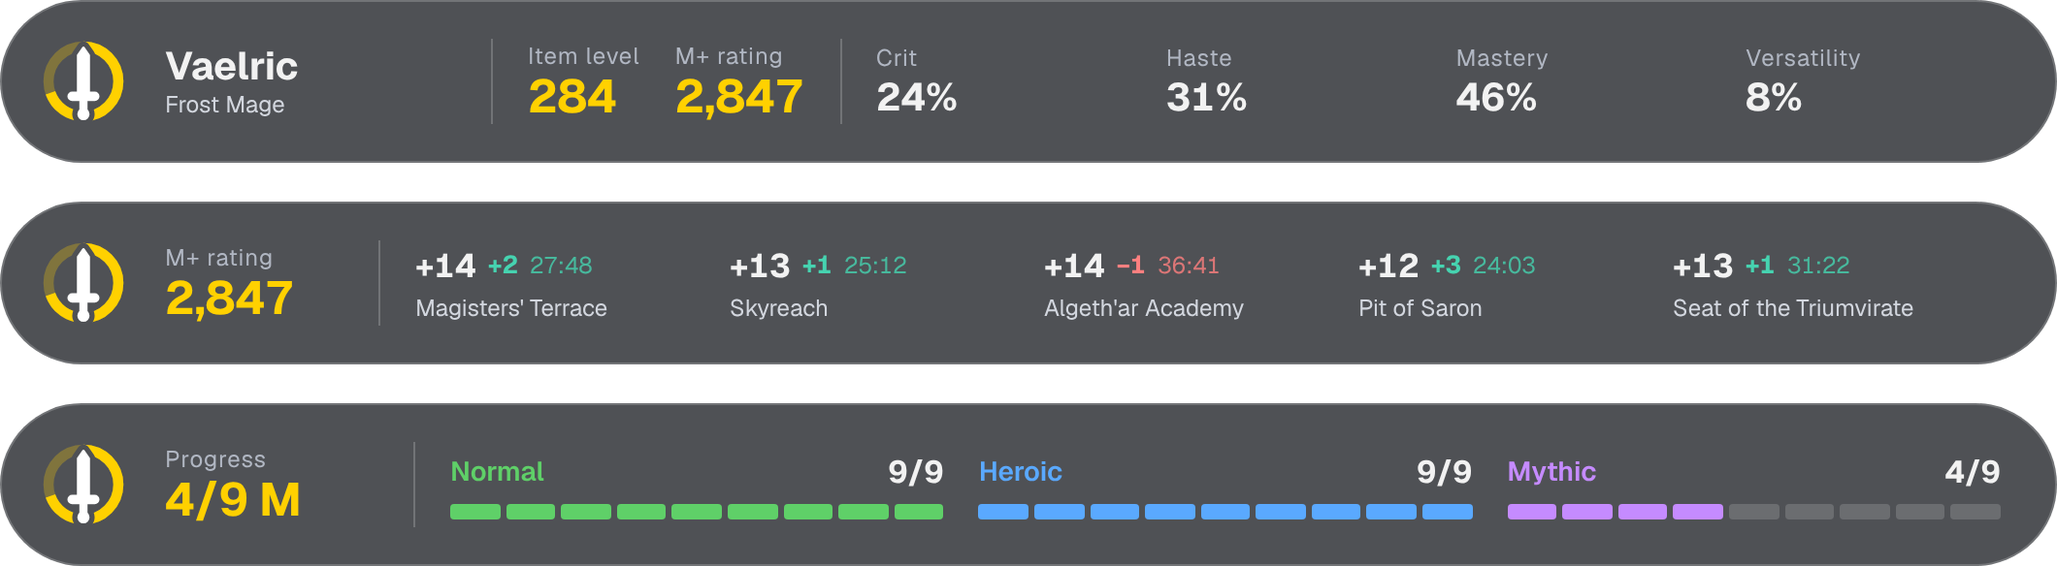
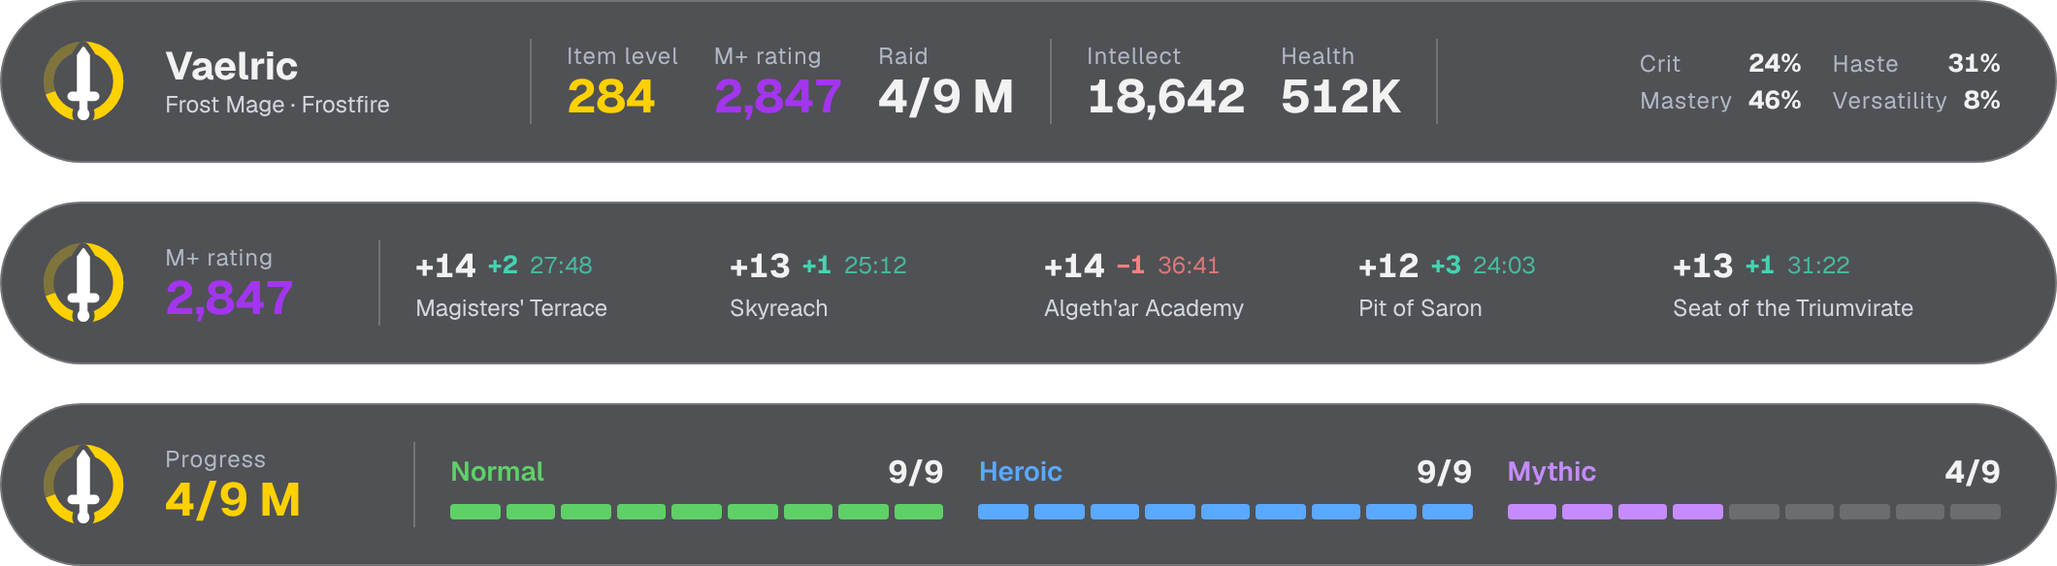
Character page: summary, main stat, health and tertiary stats
- M+ rating in Blizzard's rating colour (also on the Mythic+ page), raid progress and best key on the character page
- Main stat (highest of strength, agility, intellect), health, leech, avoidance and speed from the statistics endpoint
- Hero talent next to the spec when Blizzard sends it
- Level only while below max level (always in WoW Forever)
- All three layouts keep their size in all four languages; screenshots updated

diff --git a/public/js/render.js b/public/js/render.js
@@ -2,6 +2,8 @@
 import { TEXTS } from './i18n.js';
 
 export const SIZES = { a: [640, 270], c: [1060, 84], d: [300, 590] };
+// Höchste Stufe in Retail (Midnight); darunter zeigt die Charakterseite die Stufe
+const MAX_LEVEL = 90;
 export const PAGES = ['character', 'mplus', 'raid'];
 // Farbe und Deckkraft (%) des Hintergrunds, wenn im Editor nichts eingestellt ist
 export const BACKGROUND = { a: ['#14161c', 94], c: ['#12141a', 74], d: ['#0f1116', 100] };
@@ -33,13 +35,23 @@ function view(state, lang, game) {
     t,
     mp,
     title: mp ? t.mplus : t.dungeon,
-    c: { name: esc(c.name), realm: esc(c.realm), guild: esc(c.guild), spec: esc(c.spec), level: c.level ?? 0, ilvl: c.ilvl, avatar: c.avatar },
+    c: { name: esc(c.name), realm: esc(c.realm), guild: esc(c.guild), spec: esc(c.spec), hero: esc(c.hero ?? ''), level: c.level ?? 0, ilvl: c.ilvl, avatar: c.avatar },
+    // Auf Max-Level sagt die Stufe nichts, dann zeigt die Seite sie nicht
+    leveling: forever || !(c.level >= MAX_LEVEL),
     score: m.score.toLocaleString(lang).replace(/\s/g, ' '),
+    // Wertung in Blizzards Farbe, sonst in der Akzentfarbe
+    scoreStyle: /^#[0-9a-f]{6}$/i.test(m.color ?? '') ? `color:${m.color}` : '',
     scorePct: m.scorePct,
     best: `+${m.bestKey}`,
     timed: `${m.timed}/${m.total}`,
     // Fehlt die Statistik bei Blizzard, bleibt die Werte-Zeile leer
     stats: state.stats ? Object.keys(t.stat).map((id) => ({ label: t.stat[id], value: pct(state.stats[id]) })) : [],
+    main: state.stats?.primary ? { label: t.main[state.stats.primary.id], value: state.stats.primary.value.toLocaleString(lang).replace(/\s/g, ' ') } : null,
+    health: state.stats?.health ? new Intl.NumberFormat(lang, { notation: 'compact', maximumFractionDigits: state.stats.health >= 1e5 && state.stats.health < 1e6 ? 0 : 1 }).format(state.stats.health).replace(/\s/g, ' ') : null,
+    // Tertiärwerte nur, wenn wenigstens einer da ist
+    tert: state.stats && ['leech', 'avoidance', 'speed'].some((id) => state.stats[id] > 0)
+      ? ['leech', 'avoidance', 'speed'].map((id) => ({ label: t.tert[id], value: pct((state.stats[id] ?? 0).toLocaleString(lang, { maximumFractionDigits: 1 })) }))
+      : [],
     runs: m.runs.map((run) => ({
       key: `+${run.key}`,
       name: esc(run.name),
@@ -70,24 +82,27 @@ const LAYOUTS = {
         ${AVATAR(72, v.t.portrait, v.c.avatar)}
         <div class="grow">
           <div style="font-size:30px;font-weight:700;line-height:1.1">${v.c.name}</div>
-          <div style="font-size:14px;color:#d3d7df;margin-top:4px">${v.c.spec} · ${v.c.realm}</div>
-          <div style="font-size:13px;color:#b1b7c3;margin-top:2px">${v.c.guild}</div>
+          <div class="sub">${v.c.spec}${v.c.hero ? `<span class="dot">·</span>${v.c.hero}` : ''}</div>
+          <div class="sub2">${[v.c.realm, v.c.guild].filter(Boolean).join(' · ')}</div>
         </div>
-        <div class="stack end" style="gap:4px"><div class="lbl">${v.t.level}</div><div style="font-size:38px;font-weight:700;line-height:1">${v.c.level}</div></div>
+        ${v.leveling ? `<div class="stack end" style="gap:4px"><div class="lbl">${v.t.level}</div><div style="font-size:38px;font-weight:700;line-height:1">${v.c.level}</div></div>` : ''}
         <div class="stack end" style="gap:4px"><div class="lbl">${v.t.ilvl}</div><div class="accent" style="font-size:38px;font-weight:700;line-height:1">${v.c.ilvl}</div></div>
       </div>
-      ${v.mp ? `<div style="margin-top:16px">
-        <div class="row between" style="margin-bottom:6px"><span class="lbl">${v.t.score}</span><span style="font-size:15px;font-weight:700">${v.score}</span></div>
-        <div class="track" style="height:10px"><div class="fill" style="width:${v.scorePct}%"></div></div>
-      </div>` : ''}
-      <div class="stats">${each(v.stats, (s) => `<div><div class="lbl">${s.label}</div><div class="big">${s.value}</div></div>`)}</div>`,
+      <div class="sum">
+        ${v.mp ? `<div><div class="lbl">${v.t.score}</div><div class="big accent" style="${v.scoreStyle}">${v.score}</div></div>` : ''}
+        <div><div class="lbl">${v.t.raidShort}</div><div class="big">${v.top}</div></div>
+        ${v.mp ? `<div><div class="lbl">${v.t.best}</div><div class="big">${v.best}</div></div>` : ''}
+        ${v.main ? `<div><div class="lbl">${v.main.label}</div><div class="big">${v.main.value}</div></div>` : ''}
+        ${v.health ? `<div><div class="lbl">${v.t.health}</div><div class="big">${v.health}</div></div>` : ''}
+      </div>
+      <div class="stats">${each(v.stats, (s) => `<div><div class="lbl">${s.label}</div><div class="num">${s.value}</div></div>`)}${each(v.tert, (s) => `<div class="t3"><div class="lbl">${s.label}</div><div class="num">${s.value}</div></div>`)}</div>`,
     mplus: (v) => `
       <div class="row between" style="margin-bottom:10px">
         <div class="stack" style="gap:2px">${v.mp ? `<div class="lbl">${v.t.recent}</div>` : ''}<div class="title">${v.title}</div></div>
         ${v.mp ? `<div class="row" style="gap:24px">
           <div class="stack end"><div class="lbl">${v.t.timed}</div><div class="num">${v.timed}</div></div>
           <div class="stack end"><div class="lbl">${v.t.best}</div><div class="num">${v.best}</div></div>
-          <div class="stack end"><div class="lbl">${v.t.score}</div><div class="num accent">${v.score}</div></div>
+          <div class="stack end"><div class="lbl">${v.t.score}</div><div class="num accent" style="${v.scoreStyle}">${v.score}</div></div>
         </div>` : ''}
       </div>
       <div class="stack bottom" style="gap:6px">${v.runs.length ? each(v.runs, (r) => `
@@ -113,16 +128,19 @@ const LAYOUTS = {
   c: {
     character: (v) => `
       ${MARK(48)}
-      <div class="stack" style="min-width:150px"><div style="font-size:20px;font-weight:700;line-height:1.15">${v.c.name}</div><div style="font-size:12px;color:#d3d7df;white-space:nowrap">${v.c.spec}</div></div>
+      <div class="stack who"><div style="font-size:20px;font-weight:700;line-height:1.15">${v.c.name}</div><div class="spec">${[v.leveling ? `${v.t.level} ${v.c.level}` : '', v.c.spec, v.c.hero].filter(Boolean).join(' · ')}</div></div>
       <div class="div"></div>
-      <div class="stack"><div class="lbl">${v.t.level}</div><div class="big">${v.c.level}</div></div>
       <div class="stack"><div class="lbl">${v.t.ilvl}</div><div class="big accent">${v.c.ilvl}</div></div>
-      ${v.mp ? `<div class="stack"><div class="lbl">${v.t.score}</div><div class="big accent">${v.score}</div></div>` : ''}
-      <div class="div"></div>
-      ${each(v.stats, (s) => `<div class="stack grow"><div class="lbl">${s.label}</div><div style="font-size:20px;font-weight:700;line-height:1.2">${s.value}</div></div>`)}`,
+      ${v.mp ? `<div class="stack"><div class="lbl">${v.t.score}</div><div class="big accent" style="${v.scoreStyle}">${v.score}</div></div>` : ''}
+      <div class="stack"><div class="lbl">${v.t.raidShort}</div><div class="big">${v.top}</div></div>
+      ${v.main || v.health ? `<div class="div"></div>` : ''}
+      ${v.main ? `<div class="stack"><div class="lbl">${v.main.label}</div><div class="big">${v.main.value}</div></div>` : ''}
+      ${v.health ? `<div class="stack"><div class="lbl">${v.t.health}</div><div class="big">${v.health}</div></div>` : ''}
+      ${v.stats.length ? `<div class="div"></div>` : ''}
+      <div class="sec">${each(v.stats, (s) => `<div><span class="lbl">${s.label}</span><span>${s.value}</span></div>`)}</div>`,
     mplus: (v) => `
       ${MARK(48)}
-      ${v.mp ? `<div class="stack" style="width:92px;flex:none"><div class="lbl">${v.t.score}</div><div class="big accent">${v.score}</div></div>` : `<div class="big" style="flex:none">${v.title}</div>`}
+      ${v.mp ? `<div class="stack" style="width:92px;flex:none"><div class="lbl">${v.t.score}</div><div class="big accent" style="${v.scoreStyle}">${v.score}</div></div>` : `<div class="big" style="flex:none">${v.title}</div>`}
       <div class="div"></div>
       <div class="row" style="gap:10px">${v.runs.length ? each(v.runs, (r) => `
         <div class="tile stack" style="gap:3px">
@@ -144,17 +162,24 @@ const LAYOUTS = {
     character: (v) => `
       <div class="head">${MARK(28)}<span class="grow">${v.t.character}</span></div>
       <div class="stack hero">
-        ${AVATAR(96, v.t.portrait, v.c.avatar)}
-        <div style="font-size:26px;font-weight:700;margin-top:12px;line-height:1.1">${v.c.name}</div>
-        <div style="font-size:14px;color:#d3d7df;margin-top:4px">${v.t.level} ${v.c.level} · ${v.c.spec}</div>
-        <div style="font-size:13px;color:#b1b7c3;margin-top:2px">${[v.c.guild, v.c.realm].filter(Boolean).join(' · ')}</div>
+        ${AVATAR(56, v.t.portrait, v.c.avatar)}
+        <div style="font-size:22px;font-weight:700;margin-top:8px;line-height:1.1">${v.c.name}</div>
+        <div class="sub">${[v.leveling ? `${v.t.level} ${v.c.level}` : '', v.c.spec, v.c.hero].filter(Boolean).join(' · ')}</div>
+        <div class="sub2">${[v.c.guild, v.c.realm].filter(Boolean).join(' · ')}</div>
       </div>
-      <div class="line"><span class="lbl">${v.t.ilvl}</span><span class="big accent">${v.c.ilvl}</span></div>
-      ${v.mp ? `<div class="line"><span class="lbl">${v.t.score}</span><span class="big accent">${v.score}</span></div>` : ''}
-      ${each(v.stats, (s) => `<div class="line"><span class="lbl">${s.label}</span><span class="num">${s.value}</span></div>`)}`,
+      <div class="cells">
+        <div><span class="lbl">${v.t.ilvl}</span><span class="big accent">${v.c.ilvl}</span></div>
+        ${v.mp ? `<div><span class="lbl">${v.t.score}</span><span class="big accent" style="${v.scoreStyle}">${v.score}</span></div>` : ''}
+        <div><span class="lbl">${v.t.raidShort}</span><span class="big">${v.top}</span></div>
+        ${v.mp ? `<div><span class="lbl">${v.t.best}</span><span class="big">${v.best}</span></div>` : ''}
+        ${v.main ? `<div><span class="lbl">${v.main.label}</span><span class="big">${v.main.value}</span></div>` : ''}
+        ${v.health ? `<div><span class="lbl">${v.t.health}</span><span class="big">${v.health}</span></div>` : ''}
+      </div>
+      ${v.stats.length ? `<div class="cells small">${each(v.stats, (s) => `<div><span class="lbl">${s.label}</span><span class="num">${s.value}</span></div>`)}</div>` : ''}
+      ${v.tert.length ? `<div class="tert">${each(v.tert, (s) => `<div><span class="lbl">${s.label}</span><span>${s.value}</span></div>`)}</div>` : ''}`,
     mplus: (v) => `
       <div class="head">${MARK(28)}<span class="grow">${v.title}</span></div>
-      ${v.mp ? `<div class="line"><span class="lbl">${v.t.score}</span><span class="accent" style="font-size:34px;font-weight:700;line-height:1">${v.score}</span></div>
+      ${v.mp ? `<div class="line"><span class="lbl">${v.t.score}</span><span class="accent" style="font-size:34px;font-weight:700;line-height:1;${v.scoreStyle}">${v.score}</span></div>
       <div class="line"><span class="lbl">${v.t.best}</span><span class="num">${v.best}</span></div>
       <div class="line"><span class="lbl">${v.t.timed}</span><span class="num">${v.timed}</span></div>` : ''}
       ${v.runs.length ? each(v.runs, (r) => `

diff --git a/public/js/i18n.js b/public/js/i18n.js
@@ -32,6 +32,8 @@ export const TEXTS = {
     ilvl: 'Itemlevel', score: 'M+-Wertung', timed: 'In der Zeit', best: 'Bester Key', progress: 'Fortschritt', kills: 'Kills', parse: 'Bester Parse',
     portrait: 'Platzhalter für das Charakterbild',
     stat: { crit: 'Krit', haste: 'Tempo', mastery: 'Meisterschaft', versatility: 'Vielseitigkeit' },
+    main: { strength: 'Stärke', agility: 'Beweglichkeit', intellect: 'Intelligenz' }, health: 'Gesundheit', raidShort: 'Raid',
+    tert: { leech: 'Lebensraub', avoidance: 'Vermeidung', speed: 'Geschwindigkeit' },
     diff: { normal: 'Normal', heroic: 'Heroisch', mythic: 'Mythisch' }, diffShort: { normal: 'N', heroic: 'H', mythic: 'M' },
     demo: 'Demo-Modus (Beispieldaten)', region: 'Region', dataLoading: 'Lade Charakterdaten …', live: 'Echte Daten', notFound: 'Charakter nicht gefunden, zeige Beispieldaten', offline: 'Blizzard nicht erreichbar', noKey: 'Kein Blizzard-Schlüssel, zeige Beispieldaten', saveError: 'Speichern fehlgeschlagen, Server prüfen', editorLang: 'Sprache', name: 'Name', realm: 'Realm', surname: 'Nachname', game: 'Spiel',
     layout: 'Layout', layoutA: 'Klassik', layoutC: 'Leiste', layoutD: 'Seitenleiste',
@@ -70,6 +72,8 @@ export const TEXTS = {
     ilvl: 'Item level', score: 'M+ rating', timed: 'In time', best: 'Best key', progress: 'Progress', kills: 'Kills', parse: 'Best parse',
     portrait: 'Placeholder for the character portrait',
     stat: { crit: 'Crit', haste: 'Haste', mastery: 'Mastery', versatility: 'Versatility' },
+    main: { strength: 'Strength', agility: 'Agility', intellect: 'Intellect' }, health: 'Health', raidShort: 'Raid',
+    tert: { leech: 'Leech', avoidance: 'Avoidance', speed: 'Speed' },
     diff: { normal: 'Normal', heroic: 'Heroic', mythic: 'Mythic' }, diffShort: { normal: 'N', heroic: 'H', mythic: 'M' },
     demo: 'Demo mode (sample data)', region: 'Region', dataLoading: 'Loading character data …', live: 'Live data', notFound: 'Character not found, showing sample data', offline: 'Blizzard unreachable', noKey: 'No Blizzard key, showing sample data', saveError: 'Saving failed, check the server', editorLang: 'Language', name: 'Name', realm: 'Realm', surname: 'Surname', game: 'Game',
     layout: 'Layout', layoutA: 'Classic', layoutC: 'Bar', layoutD: 'Sidebar',
@@ -108,6 +112,8 @@ export const TEXTS = {
     ilvl: 'Ур. предметов', score: 'Рейтинг М+', timed: 'В срок', best: 'Лучший ключ', progress: 'Прогресс', kills: 'Убийства', parse: 'Лучший парс',
     portrait: 'Заглушка для портрета персонажа',
     stat: { crit: 'Крит', haste: 'Скорость', mastery: 'Искусность', versatility: 'Универсальность' },
+    main: { strength: 'Сила', agility: 'Ловкость', intellect: 'Интеллект' }, health: 'Здоровье', raidShort: 'Рейд',
+    tert: { leech: 'Самоисцеление', avoidance: 'Избегание', speed: 'Скорость бега' },
     diff: { normal: 'Обычный', heroic: 'Героический', mythic: 'Эпохальный' }, diffShort: { normal: 'О', heroic: 'Г', mythic: 'Э' },
     demo: 'Демо-режим (примерные данные)', region: 'Регион', dataLoading: 'Загрузка данных персонажа …', live: 'Реальные данные', notFound: 'Персонаж не найден, показаны примерные данные', offline: 'Blizzard недоступен', noKey: 'Нет ключа Blizzard, показаны примерные данные', saveError: 'Не удалось сохранить, проверь сервер', editorLang: 'Язык', name: 'Имя', realm: 'Игровой мир', surname: 'Фамилия', game: 'Игра',
     layout: 'Макет', layoutA: 'Классика', layoutC: 'Полоса', layoutD: 'Боковая панель',
@@ -146,6 +152,8 @@ export const TEXTS = {
     ilvl: 'Niveau d’objet', score: 'Score M+', timed: 'Dans les temps', best: 'Meilleure clé', progress: 'Progression', kills: 'Boss vaincus', parse: 'Meilleur parse',
     portrait: 'Emplacement du portrait du personnage',
     stat: { crit: 'Critique', haste: 'Hâte', mastery: 'Maîtrise', versatility: 'Polyvalence' },
+    main: { strength: 'Force', agility: 'Agilité', intellect: 'Intelligence' }, health: 'Points de vie', raidShort: 'Raid',
+    tert: { leech: 'Ponction', avoidance: 'Évitement', speed: 'Vitesse' },
     diff: { normal: 'Normal', heroic: 'Héroïque', mythic: 'Mythique' }, diffShort: { normal: 'N', heroic: 'H', mythic: 'M' },
     demo: 'Mode démo (données d’exemple)', region: 'Région', dataLoading: 'Chargement du personnage …', live: 'Données réelles', notFound: 'Personnage introuvable, données d’exemple affichées', offline: 'Blizzard injoignable', noKey: 'Pas de clé Blizzard, données d’exemple affichées', saveError: 'Échec de l’enregistrement, vérifie le serveur', editorLang: 'Langue', name: 'Nom', realm: 'Royaume', surname: 'Nom de famille', game: 'Jeu',
     layout: 'Disposition', layoutA: 'Classique', layoutC: 'Barre', layoutD: 'Barre latérale',

diff --git a/public/css/overlay.css b/public/css/overlay.css
@@ -31,7 +31,19 @@ html, body { margin: 0; background: transparent; overflow: hidden; }
 .a::before { content: ''; position: absolute; inset: 0; background: var(--accent); opacity: .14; -webkit-mask-image: radial-gradient(380px 220px at 100% 0%, #000, transparent 70%); mask-image: radial-gradient(380px 220px at 100% 0%, #000, transparent 70%); pointer-events: none; }
 .a::after { content: ''; position: absolute; top: 0; left: 24px; width: 64px; height: 3px; border-radius: 0 0 3px 3px; background: var(--accent); }
 .a > * { position: relative; }
-.a .stats { display: grid; grid-template-columns: repeat(4, minmax(0, 1fr)); gap: 12px; margin-top: auto; }
+.a .sub { font-size: 14px; color: #d3d7df; margin-top: 4px; white-space: nowrap; overflow: hidden; text-overflow: ellipsis; }
+.a .sub .dot { margin: 0 6px; color: #8b909c; }
+.a .sub2 { font-size: 13px; color: #b1b7c3; margin-top: 2px; white-space: nowrap; overflow: hidden; text-overflow: ellipsis; }
+/* Charakter: Zusammenfassung (Wertung, Raid, Key, Hauptattribut, Leben), darunter die Werte */
+.a .sum { display: flex; justify-content: space-between; gap: 14px; margin-top: 16px; padding-top: 14px; border-top: 1px solid rgba(255,255,255,.1); }
+.a .sum .lbl, .a .stats .lbl { white-space: nowrap; }
+.a .sum .big { white-space: nowrap; }
+.a .stats { display: flex; justify-content: space-between; gap: 8px; margin-top: auto; }
+.a .stats > div { flex: none; }
+.a .stats .lbl { font-size: 11px; letter-spacing: .02em; }
+.a .stats .num { font-size: 17px; line-height: 1.2; }
+.a .stats .t3 .num { color: #c9ced8; font-weight: 600; }
+.a .stats .t3:first-of-type { padding-left: 10px; border-left: 1px solid rgba(255,255,255,.12); }
 .a .bottom { margin-top: auto; }
 /* Raid: ein Segment pro Boss, wie die Punkte in der Leiste */
 .a .rp { display: flex; gap: 4px; }
@@ -43,6 +55,12 @@ html, body { margin: 0; background: transparent; overflow: hidden; }
 .c .div { width: 1px; height: 44px; background: rgba(255,255,255,.2); flex: none; }
 .c .lbl { white-space: nowrap; }
 .c .tile { width: 152px; flex: none; }
+.c .who { flex: 0 1 170px; min-width: 90px; }
+.c .who > div { white-space: nowrap; overflow: hidden; text-overflow: ellipsis; }
+.c .spec { font-size: 12px; color: #d3d7df; white-space: nowrap; overflow: hidden; text-overflow: ellipsis; }
+.c .sec { display: grid; grid-template-columns: auto auto; gap: 2px 16px; min-width: 0; flex: none; margin-left: auto; }
+.c .sec > div { display: flex; justify-content: space-between; align-items: baseline; gap: 8px; font-size: 13px; font-weight: 700; white-space: nowrap; }
+.c .sec .lbl { font-size: 12px; }
 .c .tile .name { font-size: 12px; font-weight: 400; color: #d3d7df; white-space: nowrap; overflow: hidden; text-overflow: ellipsis; }
 .c .result.up { color: #46d3b0; }
 .c .result.down { color: #ff8080; }
@@ -60,7 +78,19 @@ html, body { margin: 0; background: transparent; overflow: hidden; }
 .d .head { padding: 12px 16px; display: flex; align-items: center; gap: 10px; border-bottom: 1px solid #262a33; font-size: 14px; font-weight: 600; }
 .d .line { padding: 12px 16px; border-bottom: 1px solid #262a33; display: flex; align-items: center; justify-content: space-between; gap: 10px; }
 .d .line:last-child { border-bottom: 0; }
-.d .hero { align-items: center; padding: 22px 16px 18px; border-bottom: 1px solid #262a33; }
+.d .hero { align-items: center; padding: 12px 16px 10px; border-bottom: 1px solid #262a33; }
+.d .hero .sub { font-size: 14px; color: #d3d7df; margin-top: 4px; text-align: center; }
+.d .hero .sub2 { font-size: 13px; color: #b1b7c3; margin-top: 2px; text-align: center; }
+/* Charakter: Werte als Raster, zwei Spalten, die kleinen Werte enger */
+.d .cells { display: grid; grid-template-columns: 1fr 1fr; border-bottom: 1px solid #262a33; }
+.d .cells > div { display: flex; flex-direction: column; gap: 2px; padding: 8px 16px; min-width: 0; }
+.d .cells > div:nth-child(odd) { border-right: 1px solid #262a33; }
+.d .cells > div:nth-child(n+3) { border-top: 1px solid #262a33; }
+.d .cells .lbl { white-space: nowrap; overflow: hidden; text-overflow: ellipsis; }
+.d .cells.small > div { padding: 6px 16px; }
+.d .cells.small .num { font-size: 16px; }
+.d .tert { padding: 6px 0; }
+.d .tert > div { display: flex; justify-content: space-between; align-items: baseline; gap: 10px; padding: 3px 16px; font-size: 14px; font-weight: 600; color: #c9ced8; }
 .d .diff { padding: 16px; border-bottom: 1px solid #262a33; justify-content: center; gap: 12px; }
 .d .diff:last-child { border-bottom: 0; }
 .d .diff b { color: #f2f2f2; }
@@ -71,3 +101,4 @@ html, body { margin: 0; background: transparent; overflow: hidden; }
 /* Farbig (Einstellung): jede Schwierigkeit in ihrer Farbe statt in der Akzentfarbe, in allen Layouts */
 .qc .q-normal, .qc .q-heroic, .qc .q-mythic { --accent: var(--q); }
 .qc .dname { color: var(--q); }
+.d .cells .big { font-size: 24px; }

diff --git a/src/live.test.ts b/src/live.test.ts
@@ -16,11 +16,15 @@ const API: Record<string, unknown> = {
   [CHAR]: {
     name: 'Vaelric', realm: { name: names('Der Rat von Dalaran', 'Der Rat von Dalaran') }, guild: { name: 'Silent Vigil' },
     level: 90, equipped_item_level: 284, active_spec: { name: names('Frost', 'Frost') }, character_class: { name: names('Mage', 'Magier') },
+    active_hero_talent_tree: { name: names('Frostfire', 'Frostfeuer') },
   },
-  [`${CHAR}/statistics`]: { melee_crit: { value: 12.1 }, spell_crit: { value: 24.4 }, spell_haste: { value: 30.6 }, mastery: { value: 46.2 }, versatility_damage_done_bonus: 8.1 },
+  [`${CHAR}/statistics`]: {
+    melee_crit: { value: 12.1 }, spell_crit: { value: 24.4 }, spell_haste: { value: 30.6 }, mastery: { value: 46.2 }, versatility_damage_done_bonus: 8.1,
+    health: 512400.4, strength: { effective: 940 }, agility: { effective: 1210 }, intellect: { effective: 18642 }, lifesteal: { value: 3.24 }, avoidance: { value: 0 }, speed: { value: 4.06 },
+  },
   [`${CHAR}/character-media`]: { assets: [{ key: 'avatar', value: 'https://render.worldofwarcraft.com/eu/x-avatar.jpg' }] },
   [`${CHAR}/mythic-keystone-profile/season/17`]: {
-    mythic_rating: { rating: 2847.4 },
+    mythic_rating: { rating: 2847.4, color: { r: 163, g: 53, b: 238, a: 1 } },
     best_runs: [
       { completed_timestamp: 1, duration: 1_400_000, keystone_level: 14, is_completed_within_time: true, dungeon: { id: 161, name: names('Skyreach', 'Himmelsnadel') },
         mythic_rating: { rating: 301.26 }, keystone_affixes: [{ name: names('Fortified', 'Verstärkt') }],
@@ -80,9 +84,13 @@ test('baut den Overlay-Zustand aus den Blizzard-Daten, auf Deutsch', async () =>
   assert.ok(state);
   assert.deepEqual(state.character, {
     name: 'Vaelric', realm: 'Der Rat von Dalaran', guild: 'Silent Vigil', spec: 'Frost-Magier', level: 90, ilvl: 284,
-    avatar: 'https://render.worldofwarcraft.com/eu/x-avatar.jpg',
+    avatar: 'https://render.worldofwarcraft.com/eu/x-avatar.jpg', hero: 'Frostfeuer',
   });
-  assert.deepEqual(state.stats, { crit: 24, haste: 31, mastery: 46, versatility: 8 });
+  // Hauptattribut = das höchste der drei, Tertiärwerte mit einer Nachkommastelle
+  assert.deepEqual(state.stats, {
+    crit: 24, haste: 31, mastery: 46, versatility: 8, primary: { id: 'intellect', value: 18642 }, health: 512400, leech: 3.2, avoidance: 0, speed: 4.1,
+  });
+  assert.equal(state.mplus.color, '#a335ee');
   assert.deepEqual([state.mplus.score, state.mplus.bestKey, state.mplus.timed, state.mplus.total], [2847, 14, 1, 8]);
   // Neueste zuerst; 23:20 liegt unter der +2-Grenze (24:00), aber über +3 (18:00)
   assert.deepEqual(state.mplus.runs, [

diff --git a/src/demo.ts b/src/demo.ts
@@ -1,10 +1,10 @@
 import type { Lang, Settings } from './settings.ts';
 
-const NAMES: Record<Lang, { spec: string; dungeons: string[] }> = {
-  de: { spec: 'Frost-Magier', dungeons: ['Terrasse der Magister', 'Himmelsnadel', "Akademie von Algeth'ar", 'Grube von Saron', 'Sitz des Triumvirats'] },
-  en: { spec: 'Frost Mage', dungeons: ["Magisters' Terrace", 'Skyreach', "Algeth'ar Academy", 'Pit of Saron', 'Seat of the Triumvirate'] },
-  ru: { spec: 'Маг «Лёд»', dungeons: ['Терраса Магистров', 'Небесный Путь', "Академия Алгет'ар", 'Яма Сарона', 'Престол Триумвирата'] },
-  fr: { spec: 'Mage Givre', dungeons: ['Terrasse des Magistères', 'Orée-du-Ciel', "Académie d'Algeth'ar", 'Fosse de Saron', 'Siège du Triumvirat'] },
+const NAMES: Record<Lang, { spec: string; hero: string; dungeons: string[] }> = {
+  de: { spec: 'Frost-Magier', hero: 'Frostfeuer', dungeons: ['Terrasse der Magister', 'Himmelsnadel', "Akademie von Algeth'ar", 'Grube von Saron', 'Sitz des Triumvirats'] },
+  en: { spec: 'Frost Mage', hero: 'Frostfire', dungeons: ["Magisters' Terrace", 'Skyreach', "Algeth'ar Academy", 'Pit of Saron', 'Seat of the Triumvirate'] },
+  ru: { spec: 'Маг «Лёд»', hero: 'Ледяной огонь', dungeons: ['Терраса Магистров', 'Небесный Путь', "Академия Алгет'ар", 'Яма Сарона', 'Престол Триумвирата'] },
+  fr: { spec: 'Mage Givre', hero: 'Feu de givre', dungeons: ['Terrasse des Magistères', 'Orée-du-Ciel', "Académie d'Algeth'ar", 'Fosse de Saron', 'Siège du Triumvirat'] },
 };
 
 const RUNS = [
@@ -20,10 +20,11 @@ export function demoState(settings: Settings) {
   const names = NAMES[settings.lang];
   return {
     demo: true,
-    character: { name: settings.name, realm: settings.realm, guild: 'Silent Vigil', spec: names.spec, level: 90, ilvl: 284, avatar: '/img/sample-portrait.svg' },
-    stats: { crit: 24, haste: 31, mastery: 46, versatility: 8 },
+    character: { name: settings.name, realm: settings.realm, guild: 'Silent Vigil', spec: names.spec, level: 90, ilvl: 284, avatar: '/img/sample-portrait.svg', hero: names.hero },
+    stats: { crit: 24, haste: 31, mastery: 46, versatility: 8, primary: { id: 'intellect', value: 18_642 }, health: 512_400, leech: 3.2, avoidance: 1.6, speed: 4.1 },
     mplus: {
       score: 2847,
+      color: '#a335ee',
       scorePct: 69,
       bestKey: 14,
       timed: 7,

diff --git a/src/live.ts b/src/live.ts
@@ -190,15 +190,20 @@ export async function fetchLive(settings: Settings, blizzard: Blizzard) {
       level: profile.level ?? 0,
       ilvl: profile.equipped_item_level ?? 0,
       avatar: media?.assets?.find((a: Json) => a.key === 'avatar')?.value ?? null,
+      // Heldentalent (seit The War Within), fehlt es bei Blizzard, bleibt es leer
+      hero: tr(profile.active_hero_talent_tree?.name),
     },
     stats: stats && {
       crit: pct(stats.melee_crit?.value, stats.ranged_crit?.value, stats.spell_crit?.value),
       haste: pct(stats.melee_haste?.value, stats.ranged_haste?.value, stats.spell_haste?.value),
       mastery: pct(stats.mastery?.value),
       versatility: pct(stats.versatility_damage_done_bonus),
+      ...mainStats(stats),
     },
     mplus: {
       score,
+      // Farbe der Wertung, wie im Spiel und auf der Arsenal-Seite
+      color: hex(season?.mythic_rating?.color),
       scorePct: Math.min(100, Math.round((score / SCORE_FULL) * 100)),
       bestKey: Math.max(0, ...timed.map((run) => run.keystone_level)),
       timed: timed.length,
@@ -227,6 +232,27 @@ export async function fetchLive(settings: Settings, blizzard: Blizzard) {
       }),
     },
   };
+}
+
+/** Hauptattribut (das höchste von Stärke, Beweglichkeit, Intelligenz), Leben und Tertiärwerte in Prozent */
+function mainStats(stats: Json) {
+  const primary = (['strength', 'agility', 'intellect'] as const)
+    .map((id) => ({ id, value: Math.round(Number(stats[id]?.effective) || 0) }))
+    .reduce((best, x) => (x.value > best.value ? x : best));
+  const one = (v: unknown) => Math.round((Number(v) || 0) * 10) / 10;
+  return {
+    primary: primary.value > 0 ? primary : null,
+    health: Math.round(Number(stats.health) || 0) || null,
+    leech: one(stats.lifesteal?.value),
+    avoidance: one(stats.avoidance?.value),
+    speed: one(stats.speed?.value),
+  };
+}
+
+/** Blizzard-Farbe {r, g, b, a} (0-255) als #rrggbb */
+function hex(c: Json | undefined) {
+  if (!c || ![c.r, c.g, c.b].every((v) => Number.isFinite(Number(v)))) return null;
+  return '#' + [c.r, c.g, c.b].map((v) => Math.max(0, Math.min(255, Math.round(Number(v)))).toString(16).padStart(2, '0')).join('');
 }
 
 export type LiveState = Omit<NonNullable<Awaited<ReturnType<typeof fetchLive>>>, 'snapshot' | 'realmSlug'>;

diff --git a/README.md b/README.md
@@ -11,7 +11,7 @@ Show your **World of Warcraft** stats in your OBS stream: character, Mythic+ and
   <img src="docs/screenshots/overlay.gif" alt="The Classic overlay switching through its three pages: Character, Mythic+ and Raid" width="640">
 </p>
 
-- Three pages: **Character** (item level, Mythic+ rating, secondary stats), **Mythic+** (rating, best timed key, dungeons timed this season, best runs) and **Raid** (progress and kills for Normal, Heroic and Mythic in the current raid)
+- Three pages: **Character** (item level, Mythic+ rating in Blizzard's rating colour, raid progress, best key, main stat, health, secondary and tertiary stats, hero talent; the level only while you are still levelling), **Mythic+** (rating, best timed key, dungeons timed this season, best runs) and **Raid** (progress and kills for Normal, Heroic and Mythic in the current raid)
 - Three layouts: a **Classic** card, a slim **Bar** and a tall **Sidebar**
 - One OBS URL that switches through the pages on its own, or one URL per page
 - An editor in your browser with a live preview, protected by a login if you set a password, and every change shows up in OBS right away
